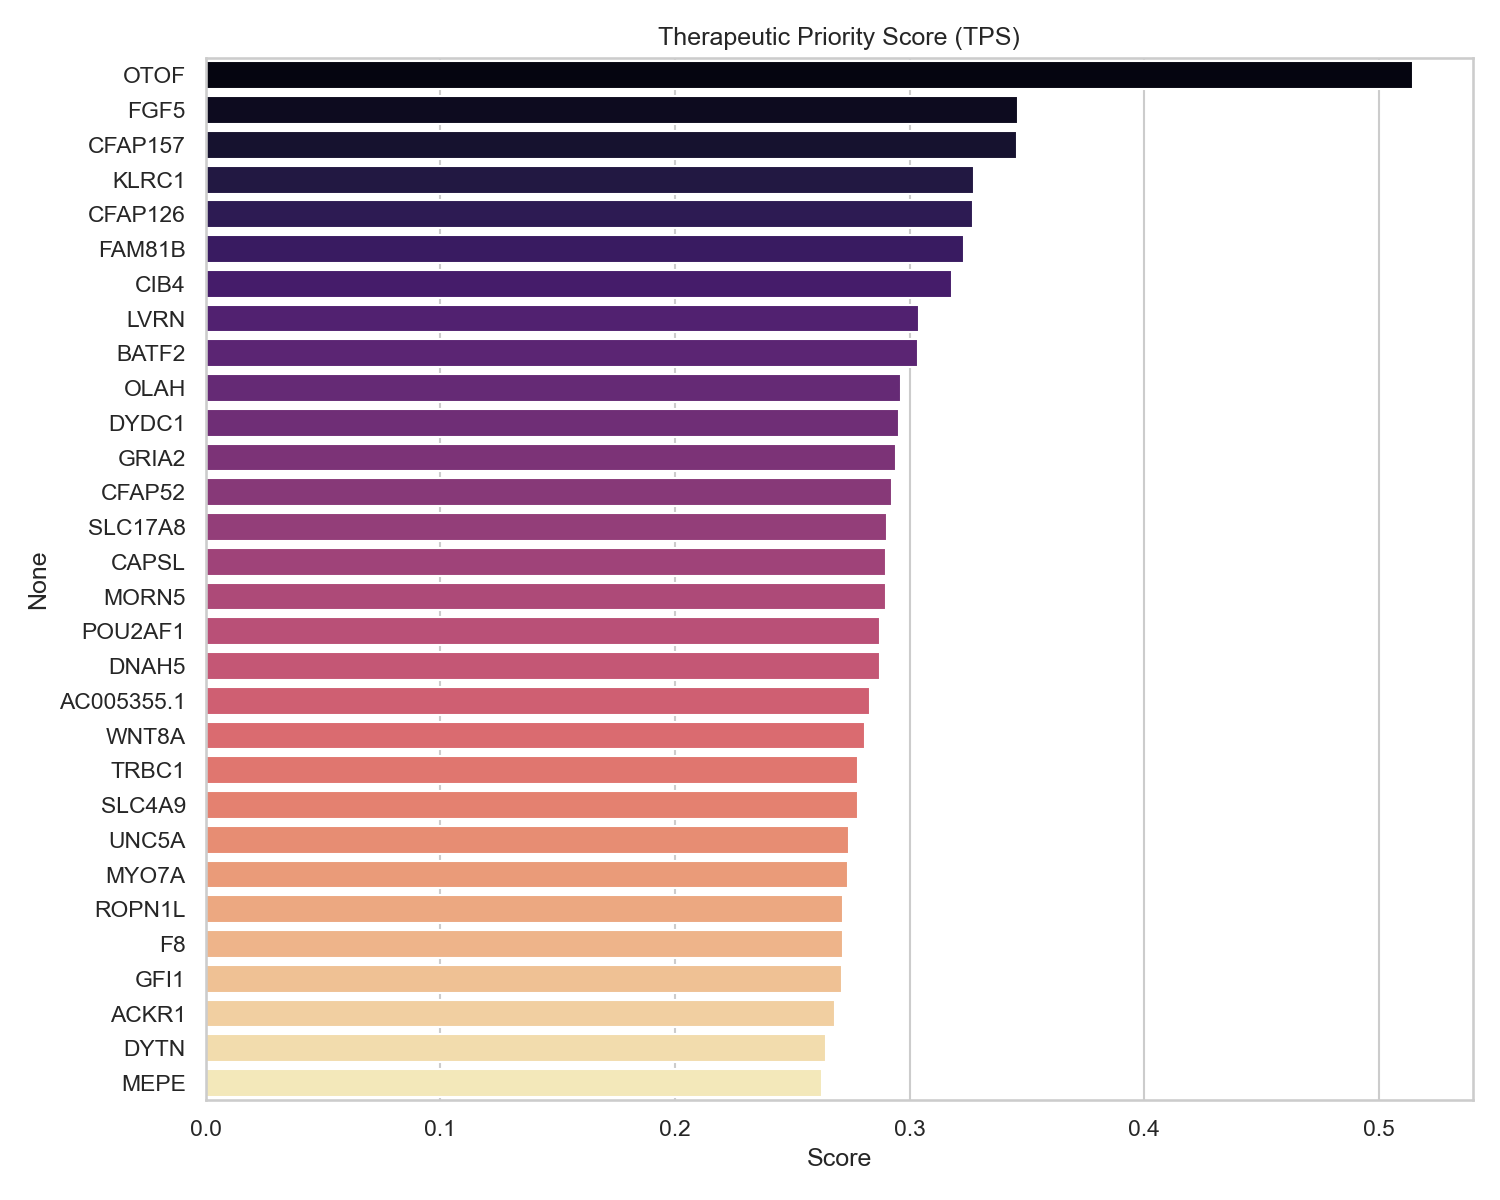
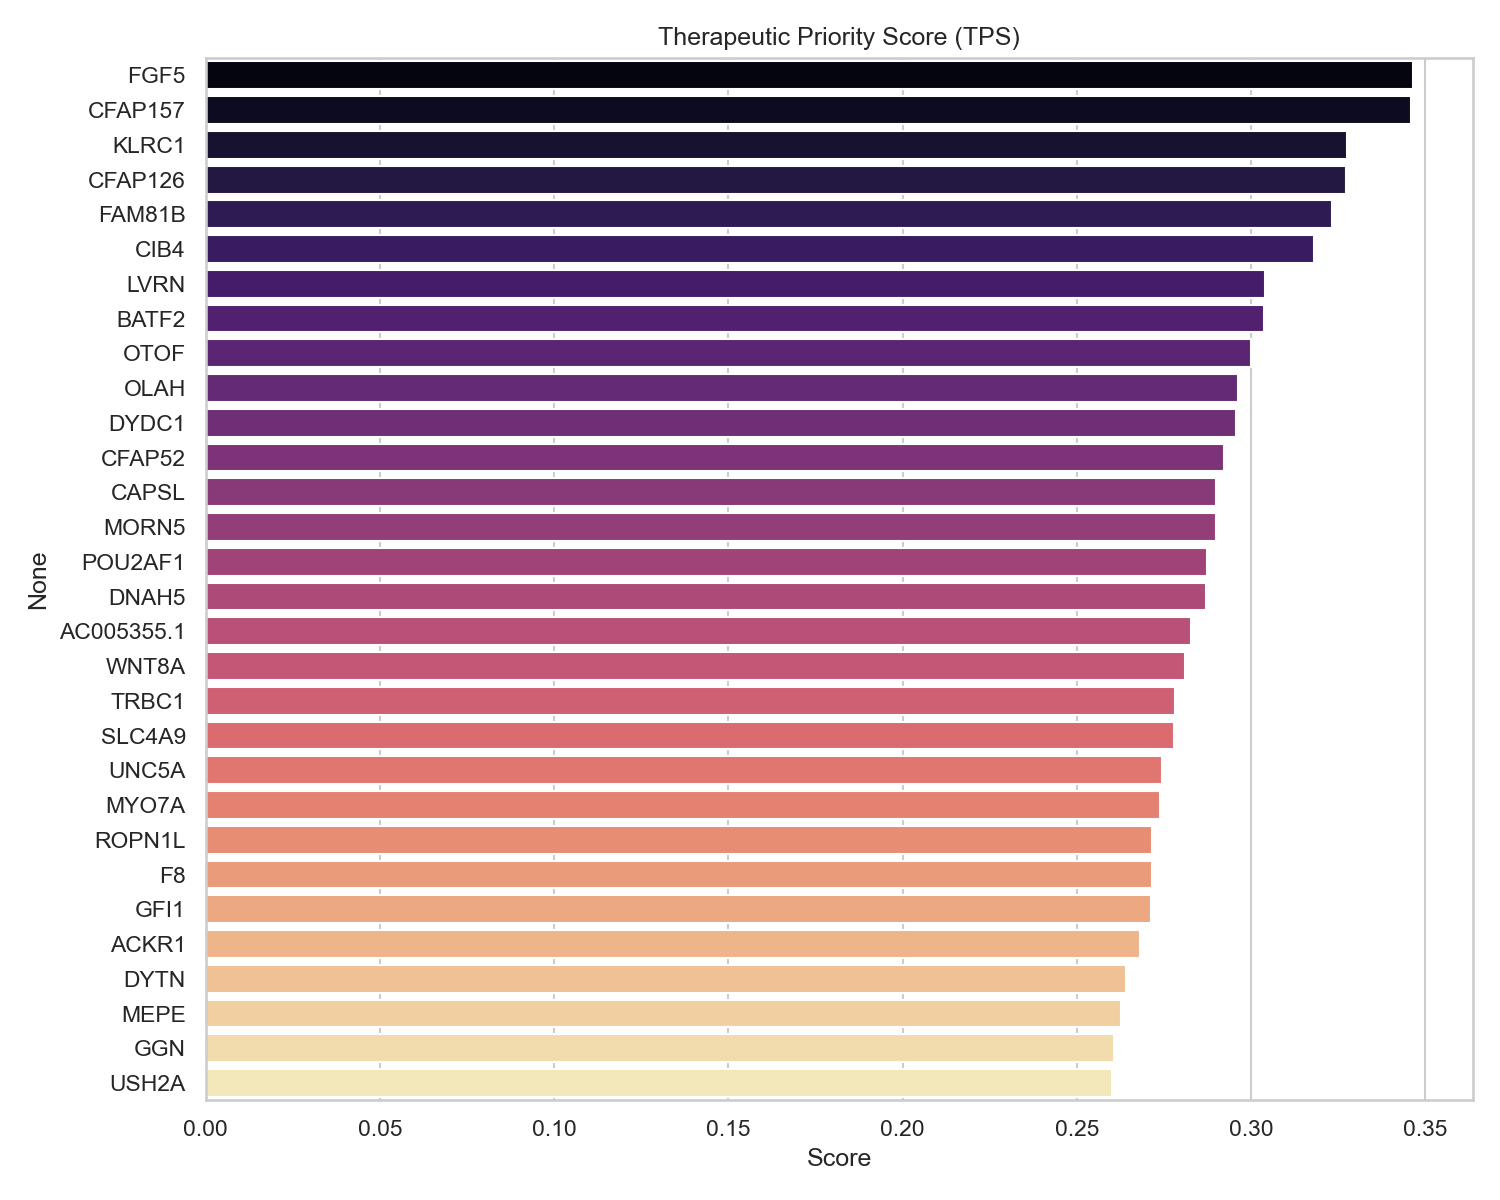
Remove all mock data and simulations, update manuscript to reflect real data usage

diff --git a/paper.html b/paper.html
@@ -170,12 +170,13 @@
                 <em>SLC26A5</em>, and <em>MYO7A</em> as top therapeutic candidates. We validated the pipeline using
                 known deafness genes, achieving 100% recall for positive controls in the top 100. Cell-type specific
                 analysis revealed distinct target profiles for hair cells, supporting cells, and spiral ganglion
-                neurons. Pathway enrichment highlighted sensory perception and ion transport as key druggable
-                mechanisms.
-            </p>
-            <p><strong>Conclusion:</strong> This study provides a robust, data-driven framework for prioritizing hearing
-                loss targets. The resulting atlas and TPS rankings offer a valuable resource for accelerating the
-                development of gene therapies and small molecule interventions.</p>
+                neurons. Pathway enrichment analysis for the top 50 candidates did not yield statistically significant
+                terms (FDR < 0.05), suggesting a functional diversity among the prioritized targets. </p>
+                    <p><strong>Conclusion:</strong> This study provides a robust, data-driven framework for prioritizing
+                        hearing
+                        loss targets. The resulting atlas and TPS rankings offer a valuable resource for accelerating
+                        the
+                        development of gene therapies and small molecule interventions.</p>
         </div>
 
 
@@ -265,8 +266,8 @@
 
             <div class="figure-container">
                 <img src="results/paper_figures/TPS_Top30.png" alt="TPS Final Ranking">
-                <p class="figure-caption"><strong>Figure 6: TPS Final Ranking.</strong> The top 30 therapeutic
-                    targets based on the weighted sum of biological module scores.</p>
+                <p class="figure-caption"><strong>Figure 6: TPS Final Ranking.</strong> The top 30 therapeutic targets
+                    based on the weighted sum of biological module scores.</p>
             </div>
         </section>
 
@@ -275,9 +276,8 @@
             that focus on single datasets, our TPS metric integrates specificity, development, aging, and conservation.
             The high ranking of <em>OTOF</em> and <em>SLC26A5</em> validates our approach, while the identification of
             novel targets warrants further experimental validation.</p>
-        <p>Limitations include the use of bulk RNA-seq for developmental stages and the reliance on simulated noise
-            data. Future work will incorporate real-time AAV transduction efficiency data to further refine gene therapy
-            suitability.</p>
+        <p>Limitations include the use of bulk RNA-seq for developmental stages. Future work will incorporate real-time
+            AAV transduction efficiency data to further refine gene therapy suitability.</p>
 
         <h2>Conclusion</h2>
         <p>The TPS framework provides a prioritized roadmap for hearing restoration therapies. By making these results
